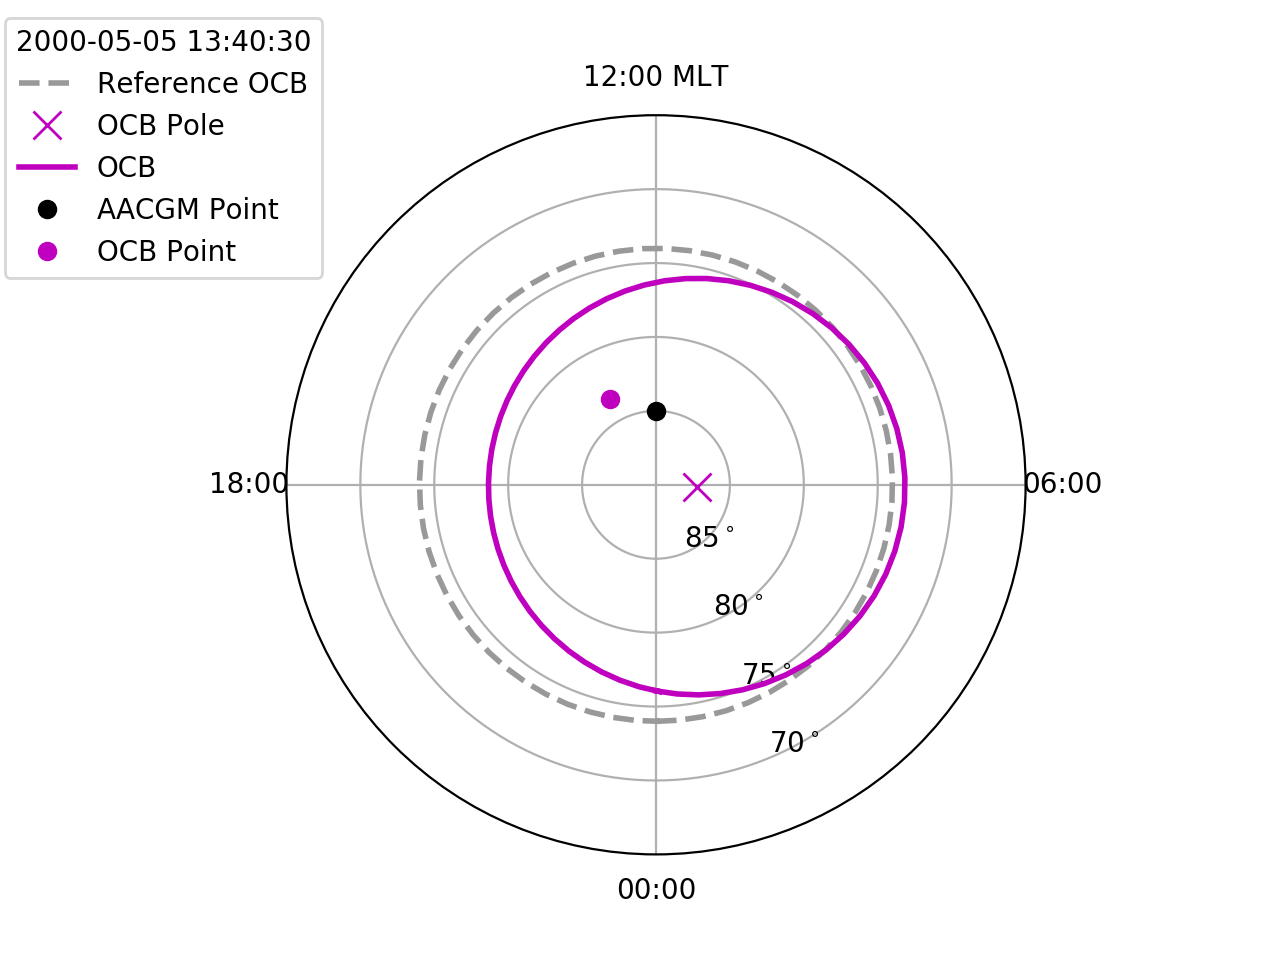
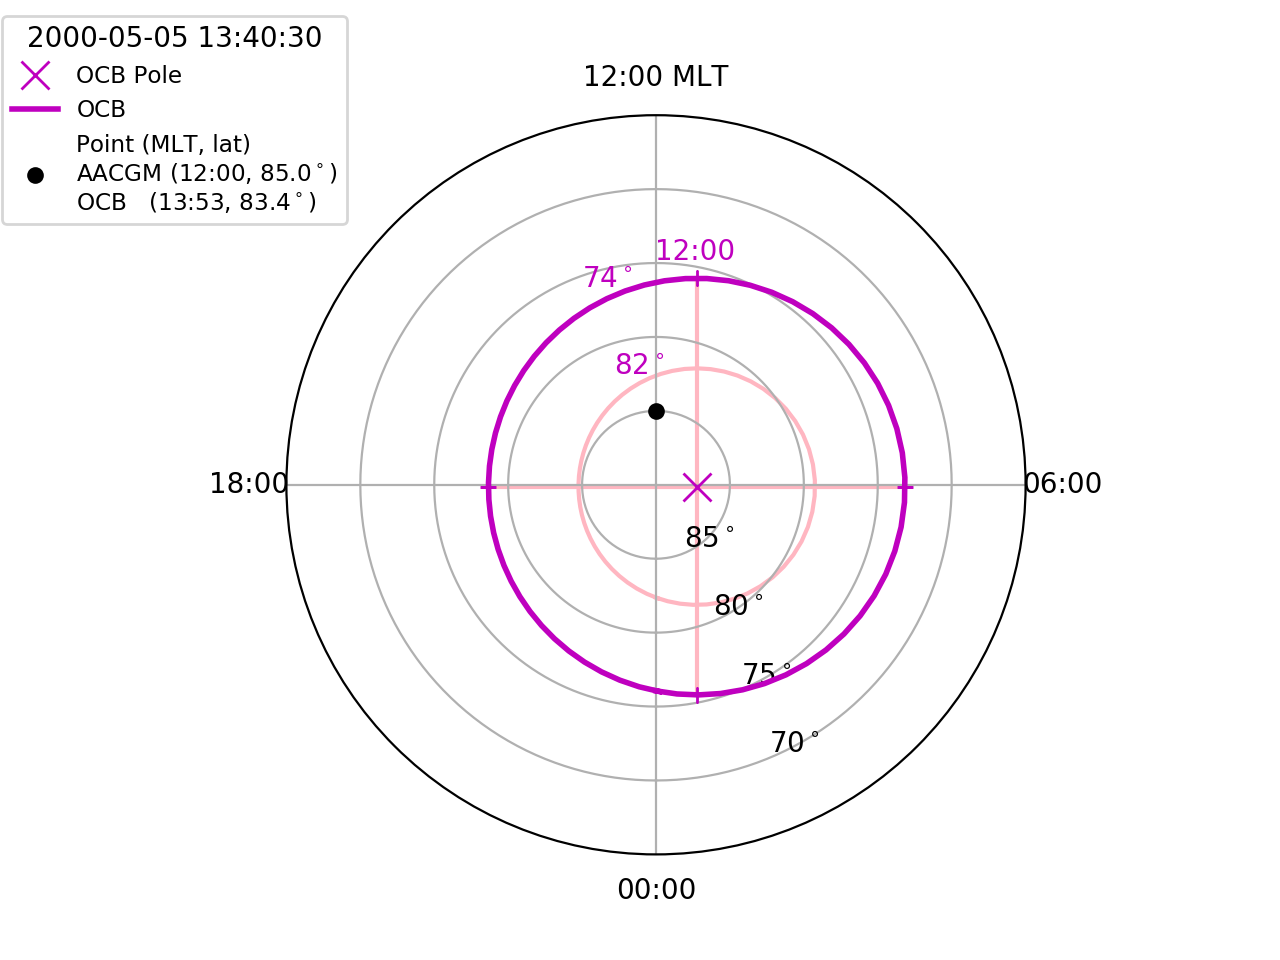
Fixed mistake in example
Fixed a mistake in the example and used revert_coord to improve
representation of OCB coordinate system.

diff --git a/docs/example.rst b/docs/example.rst
@@ -62,12 +62,6 @@ in the default IMAGE FUV file.
    ax.set_rticks([5,10,15,20])
    ax.yaxis.set_ticklabels(["85$^\circ$", "80$^\circ$", "75$^\circ$", "70$^\circ$"]
 
-Mark the location of the reference OCB, set at 74 degrees AACGM latitude
-::
-   lon = np.arange(0.0, 2.0 * np.pi + 0.1, 0.1)
-   ref_lat = np.ones(shape=lon.shape) * 16.0
-   ax.plot(lon, ref_lat, "--", linewidth=2, color="0.6", label="Reference OCB")
-
 Mark the location of the circle centre in AACGM coordinates
 ::
    ocb.rec_ind = 27
@@ -76,16 +70,40 @@ Mark the location of the circle centre in AACGM coordinates
 
 Calculate at plot the location of the OCB in AACGM coordinates
 ::
+   lon = np.arange(0.0, 2.0 * np.pi + 0.1, 0.1)
    del_lon = lon - phi_cent_rad
+   lat = ocb.r_cent[ocb.rec_ind] * np.cos(del_lon) + np.sqrt(ocb.r[ocb.rec_ind]**2 - (ocb.r_cent[ocb.rec_ind] * np.sin(del_lon))**2)
    ax.plot(lon, lat, "m-", linewidth=2, label="OCB")
+   ax.text(lon[35], lat[35]+1.5, "74$^\circ$", fontsize="medium", color="m")
 
-Now add the location of a point in AACGM coordinates
+Add more reference labels for OCB coordinates.  Since we know the location that
+we want to place these labels in OCB coordinates, the **OCBoundary** function
+**revert_coord** can be used to get the location in AACGM coordinates.
+::
+   lon_clock = list()
+   lat_clock = list()
+
+   for ocb_mlt in np.arange(0.0, 24.0, 6.0):
+       aa,oo = ocb.revert_coord(74.0, ocb_mlt)
+       lon_clock.append(oo * np.pi / 12.0)
+       lat_clock.append(90.0 - aa)
+
+   ax.plot(lon_clock, lat_clock, "m+")
+   ax.plot([lon_clock[0], lon_clock[2]], [lat_clock[0], lat_clock[2]], "-", color="lightpink", zorder=1)
+   ax.plot([lon_clock[1], lon_clock[3]], [lat_clock[1], lat_clock[3]], "-", color="lightpink", zorder=1)
+   ax.text(lon_clock[2]+.2, lat_clock[2]+1.0, "12:00",fontsize="medium",color="m")
+   ax.text(lon[35], olat[35]+1.5, "82$^\circ$", fontsize="medium", color="m")
+
+Now add the location of a point in AACGM coordinates, calculate the
+location relative to the OCB, and output both coordinates in the legend
 ::
    aacgm_lat = 85.0
    aacgm_lon = np.pi
-
-   ax.plot([aacgm_lon], [90.0-aacgm_lat], "ko", ms=5, label="AACGM Point")
-
+   ocb_lat, ocb_mlt = ocb.normal_coord(aacgm_lat, aacgm_lon * 12.0 / np.pi)
+   
+   plabel = "Point (MLT, lat)\nAACGM (12:00,85.0$^\circ$)\nOCB ({:.0f}:{:.0f},{:.1f}$^\circ$)".format(np.floor(ocb_mlt), (ocb_mlt - np.floor(ocb_mlt))*60.0, ocb_lat)
+   ax.plot([aacgm_lon], [90.0-aacgm_lat], "ko", ms=5, label=plabel)
+   
 Find the location relative to the current OCB.  Note that the AACGM coordinates
 must be in degrees latitude and hours of magnetic local time (MLT).
 ::
@@ -94,7 +112,7 @@ must be in degrees latitude and hours of magnetic local time (MLT).
 
 Add a legend to finish the figure.
 ::
-   ax.legend(loc=2, fontsize="medium", bbox_to_anchor=(-0.4,1.15), title="{:}".format(ocb.dtime[ocb.rec_ind]))
+   ax.legend(loc=2, fontsize="small", title="{:}".format(ocb.dtime[ocb.rec_ind]), bbox_to_anchor=(-0.4,1.15))
 
 .. image:: example_ocb_location.png
 

diff --git a/README.md b/README.md
@@ -116,14 +116,7 @@ ax.xaxis.set_ticks([0, 0.5*np.pi, np.pi, 1.5*np.pi])
 ax.xaxis.set_ticklabels(["00:00", "06:00", "12:00 MLT", "18:00"])
 ax.set_rlim(0,25)
 ax.set_rticks([5,10,15,20])
-ax.yaxis.set_ticklabels(["85$^\circ$", "80$^\circ$", "75$^\circ$", "70$^\circ$"]
-```
-
-Mark the location of the reference OCB, set at 74 degrees
-```
-lon = np.arange(0.0, 2.0 * np.pi + 0.1, 0.1)
-ref_lat = np.ones(shape=lon.shape) * 16.0
-ax.plot(lon, ref_lat, "--", linewidth=2, color="0.6", label="Reference OCB")
+ax.yaxis.set_ticklabels(["85$^\circ$","80$^\circ$","75$^\circ$","70$^\circ$"])
 ```
 
 Mark the location of the circle centre in AACGM coordinates
@@ -134,24 +127,44 @@ ax.plot([phi_cent_rad], [ocb.r_cent[ocb.rec_ind]], "mx", ms=10, label="OCB Pole"
 
 Calculate at plot the location of the OCB in AACGM coordinates
 ```
+lon = np.arange(0.0, 2.0 * np.pi + 0.1, 0.1)
 del_lon = lon - phi_cent_rad
+lat = ocb.r_cent[ocb.rec_ind] * np.cos(del_lon) + np.sqrt(ocb.r[ocb.rec_ind]**2 - (ocb.r_cent[ocb.rec_ind] * np.sin(del_lon))**2)
 ax.plot(lon, lat, "m-", linewidth=2, label="OCB")
+ax.text(lon[35], lat[35]+1.5, "74$^\circ$", fontsize="medium", color="m")
 ```
 
-Now add the location of a point in AACGM coordinates
+Add reference labels for OCB coordinates
+```
+lon_clock = list()
+lat_clock = list()
+
+for ocb_mlt in np.arange(0.0, 24.0, 6.0):
+    aa,oo = ocb.revert_coord(74.0, ocb_mlt)
+    lon_clock.append(oo * np.pi / 12.0)
+    lat_clock.append(90.0 - aa)
+
+ax.plot(lon_clock, lat_clock, "m+")
+ax.plot([lon_clock[0], lon_clock[2]], [lat_clock[0], lat_clock[2]], "-", color="lightpink", zorder=1)
+ax.plot([lon_clock[1], lon_clock[3]], [lat_clock[1], lat_clock[3]], "-", color="lightpink", zorder=1)
+ax.text(lon_clock[2]+.2, lat_clock[2]+1.0, "12:00",fontsize="medium",color="m")
+ax.text(lon[35], olat[35]+1.5, "82$^\circ$", fontsize="medium", color="m")
+
+```
+
+Now add the location of a point in AACGM coordinates, calculate the
+location relative to the OCB, and output both coordinates in the legend
 ```
 aacgm_lat = 85.0
 aacgm_lon = np.pi
-
-ax.plot([aacgm_lon], [90.0-aacgm_lat], "ko", ms=5, label="AACGM Point")
-```
-
-Find the location relative to the current OCB and add a legend
-```
 ocb_lat, ocb_mlt = ocb.normal_coord(aacgm_lat, aacgm_lon * 12.0 / np.pi)
-ax.plot([ocb_mlt * np.pi / 12.0], [90.0 - ocb_lat], "mo", label="OCB Point")
-ax.legend(loc=2, fontsize="medium", bbox_to_anchor=(-0.4,1.15), title="{:}".format(ocb.dtime[ocb.rec_ind]))
+plabel = "Point (MLT, lat)\nAACGM (12:00,85.0$^\circ$)\nOCB ({:.0f}:{:.0f},{:.1f}$^\circ$)".format(np.floor(ocb_mlt), (ocb_mlt - np.floor(ocb_mlt))*60.0, ocb_lat)
+
+ax.plot([aacgm_lon], [90.0-aacgm_lat], "ko", ms=5, label=plabel)
+
+ax.legend(loc=2, fontsize="small", title="{:}".format(ocb.dtime[ocb.rec_ind]), bbox_to_anchor=(-0.4,1.15))
 ```
+
 
 The figure should now look like:
 <div align="center">
